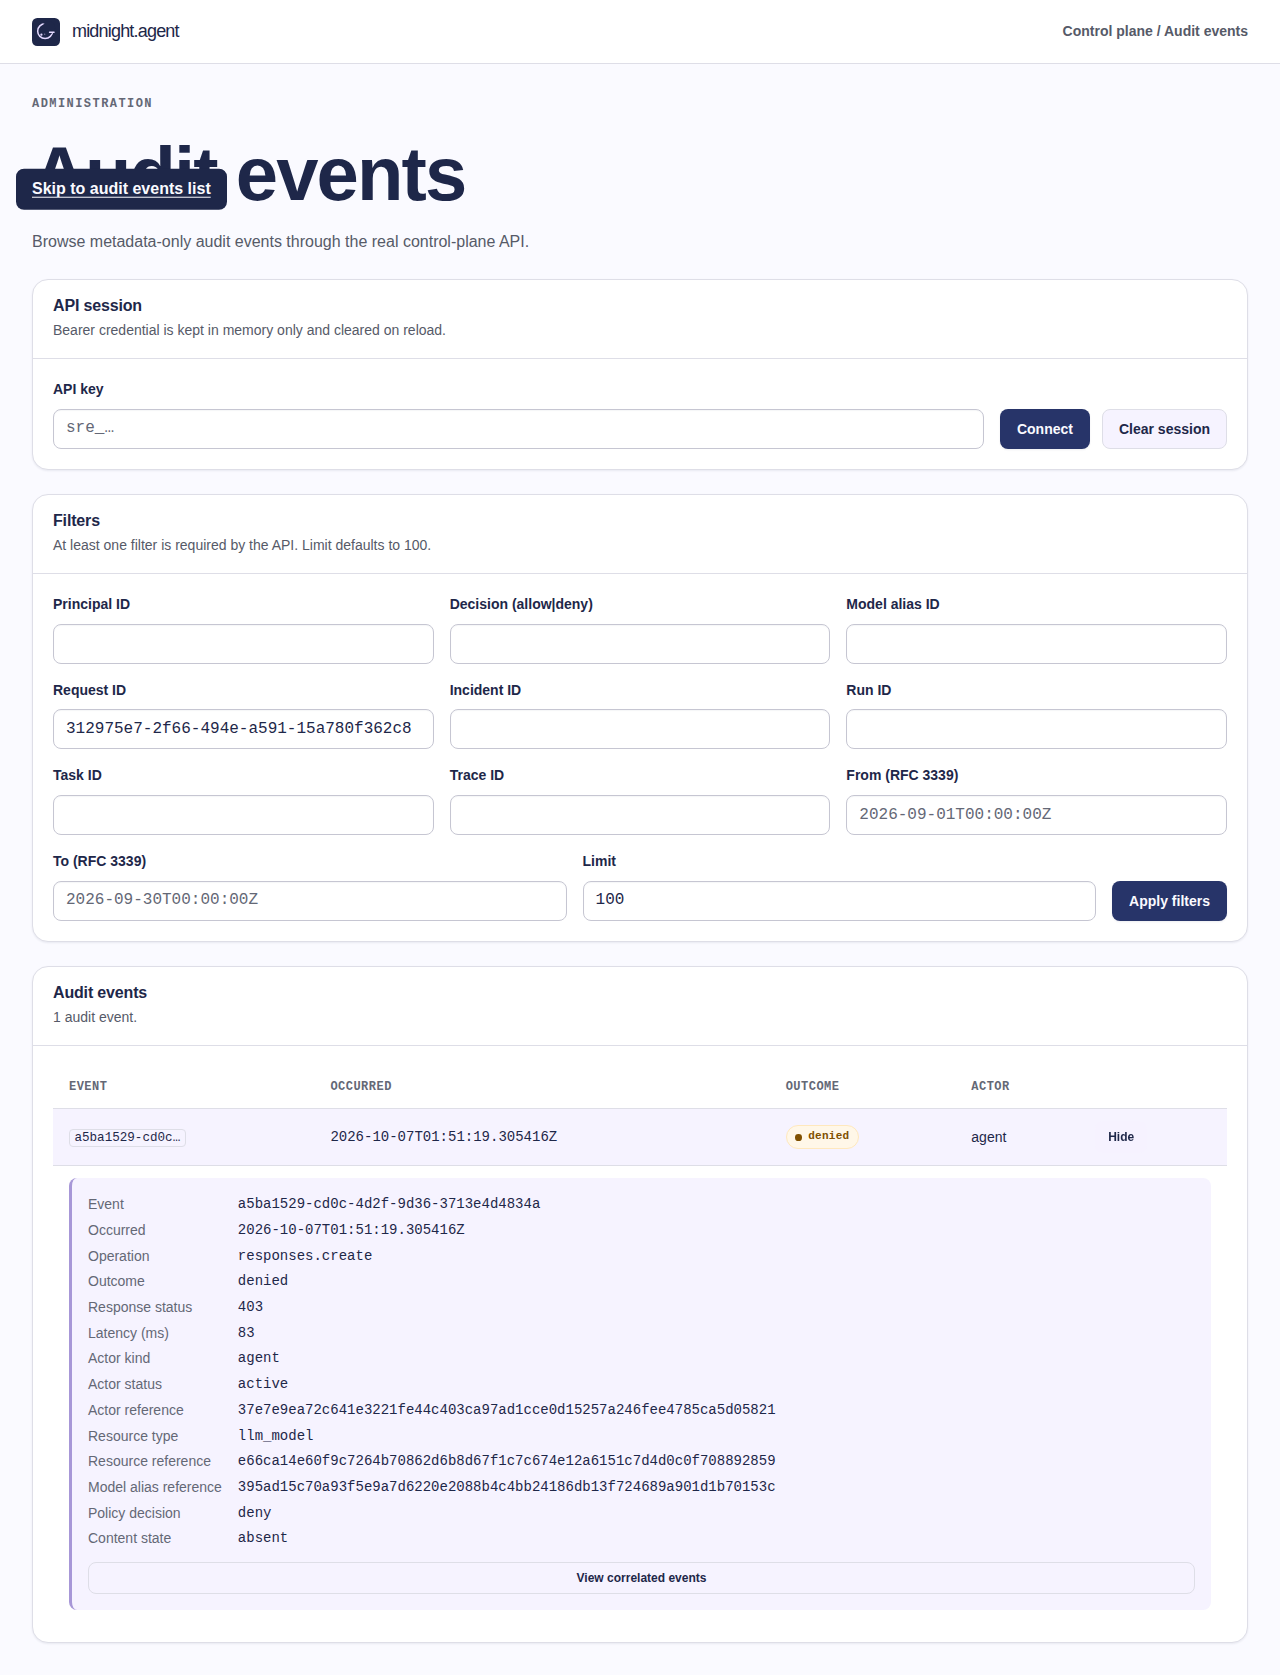
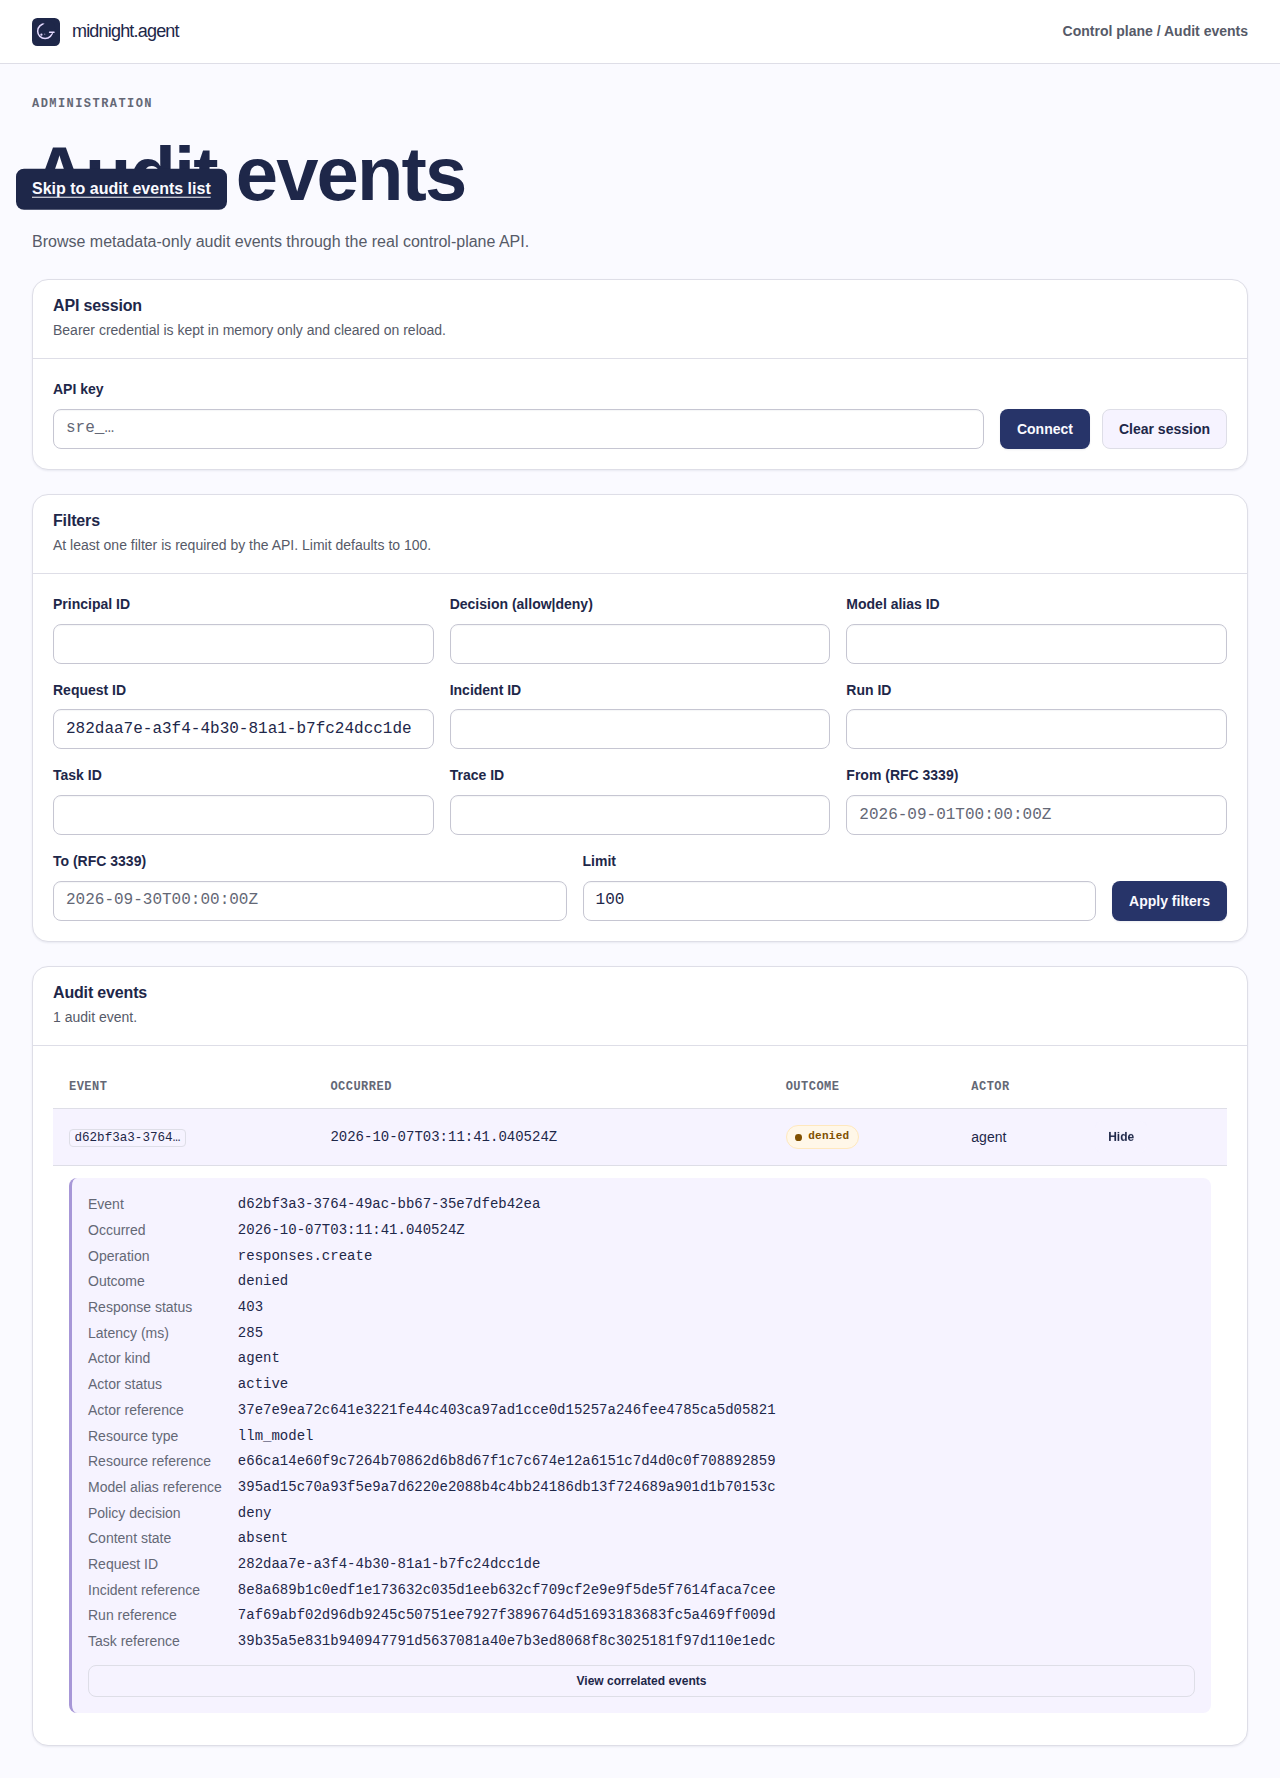
docs(audit): refresh correlation proof on current leaf

diff --git a/docs/evidence/issue-25-correlation-link.md b/docs/evidence/issue-25-correlation-link.md
@@ -1,44 +1,44 @@
 # Issue 25 safe correlation navigation
 
-Authorized follow-up to the audit review: implement the previously absent link,
-not the unrelated P2 fixes or pagination. Delivery route: delegated direct.
-Base runtime: `0af22e97d815a1c511b1a24eec14f70d3611be75`, plus uncommitted UI/tests.
-UI Git blob: `619ced26be1d901ba74cf3847a69905c887243df`.
[1 lines of base64/hex data omitted]
-the capture checks served bytes match the candidate before exercising navigation.
+Authorized follow-up: safe same-origin request-ID navigation plus explicit safe
+rendering of the event's opaque correlation references. Current main is
+`677fb76ae345e223d4313e8c5bcbdbd7acb9bbf3`; the connected capture uses the #491
+leaf. UI Git blob: `06164fbb18614a298afd98f8f806cfda80f30e4b`; served SHA-256:
[1 lines of base64/hex data omitted]
+The capture verifies the served bytes match the candidate UI before use.
 
 ## Behavior and observed proof
 
-Detail now offers **View correlated events**, using only a valid contract
-`correlation.request_id`. The destination is fixed and same-origin, not supplied
-by the server/user. Opening it prefills that UUID, clears unrelated query state,
-keeps credentials out of URLs and requires a new authenticated session. It does
-not issue a broad/automatic audit read. Invalid/duplicate IDs show validation;
-malicious correlation values produce no link. Nil/uppercase UUIDs match the API.
+Detail's **View correlated events** link uses only a valid contract
+`correlation.request_id`, to a fixed same-origin URL. It clears unrelated query
+state; credentials are not carried in URLs and the destination requires new
+authentication. Detail renders `request_id` and explicit incident/run/task/trace
+reference digest values using text content only; it does not expose raw IDs or
+create links from HMAC refs. The observed producer generated incident/run/task
+refs, but `trace_ref` was null and is not claimed as visible proof.
 
-Failure-first: initial three scenarios failed before UI edits (3 failed/4 passed,
-23.3s). An added UUID boundary exposed the initial over-strict parser (1 failed/7
-passed, 16.6s); corrected to the API-compatible canonical UUID universe. Final
-candidate: **8 browser tests passed (10.3s; restored candidate)** and **24 existing HTTP/PostgreSQL/UI
-checks passed (20.20s; restored candidate)**. No unit tests added and no retroactive strict-TDD claim.
+Failure-first browser assertions exercise valid UUID navigation, authentication,
+malicious values as inert text, and no unexpected navigation/network request.
+The current #491 candidate passed **8 Playwright journeys (16.4s)**; targeted
+Python audit/UI checks passed **68 tests (57.24s)**. The full Python suite
+(1562 passed, 1 skipped) ran on the earlier current-main/#386 candidate
+`080bef8c109b5d21c108ce501ea1aaaff460c8db`, before this UI-only change; it is
+not attributed to the #491 leaf.
 
-Real connected capture at `2026-10-07T01:54:09.884Z` followed both gateway-produced
-allow and deny events retained in isolated PostgreSQL. For each, the clicked URL
-and all three API reads retain exactly the producer's request ID. Read statuses
-are **200 -> 403 -> 200**: admin, restricted identity (zero rows), then admin.
-Reload does not carry credentials or query automatically. The reopened detail
-matches the SQL event ID and producer status (200/403), with metadata only.
-
-Artifacts: `issue-25-correlation.json`, `issue-25-correlation-allow.png`,
-`issue-25-correlation-deny.png`. Both screenshots were visually inspected and
-actual synthetic credentials/prompt-output markers checked absent from JSON/DOM.
-This proves the safe-link deliverable in the local candidate, not full issue25
-acceptance. Other P2s, #470 pagination and independent human review remain pending.
+Fresh connected captures at `2026-10-07T03:12:59.985Z` follow actual allow and
+deny producer events retained in isolated PostgreSQL. Both request IDs and SQL
+event IDs match `issue-25-audit-http.json` from the parent evidence. Each browser
+sequence is **200 -> 403 -> 200** (admin, restricted identity with zero rows,
+admin); each of three list reads uses exactly the producer request ID. Both
+screenshots show the selected event and its request/incident/run/task metadata.
+The artifact records visible refs; trace is null. Screenshots were inspected.
+These are controlled integrations using a deterministic injected LLM provider,
+real PostgreSQL and the connected gateway, not live external-provider proof.
 
 ## Containerized reproduction
 
-Use the original review's isolated `.env.worktree` and producer capture recipe in
-`issue-25-audit-review.md` first; no external provider keys or shared database.
+Use the isolated `.env.worktree` and producer capture recipe in
+`issue-25-audit-review.md` first. No external provider keys or shared database.
 
 ```sh
 docker compose -p audit25-review --env-file .env.worktree -f compose.yaml -f compose.e2e.yaml up -d --build web
@@ -47,16 +47,11 @@ docker run --rm --user "$(id -u):$(id -g)" --network audit25-review_runtime --en
 docker compose -p audit25-review --env-file .env.worktree -f compose.yaml -f compose.e2e.yaml --profile checks --profile e2e down
 ```
 
-Published navigation evidence; no merge or issue closure. Full repository suite, live external
-provider, actual killed-DB/offline demonstrations and human acceptance NOT run.
-RDD disabled/unmanaged. Keep review evidence and navigation as separate delivery
-units, each <=400 additions+deletions; do not submit the combined diff as one PR.
-Rollback: revert the UI/tests navigation unit; backend/storage contracts unchanged.
-Sanitized: yes.
+## Remaining acceptance gaps
 
-## Refreshed parent correspondence
-
-After parent HTTP/SQL evidence refreshed, correlation artifacts were regenerated
-from that exact producer artifact on `0295805211ce516bcc6d9a076d29d4b7285947ff`.
-Both allow/deny request IDs and SQL event IDs agree with the parent artifact;
-actual connected capture again observed200/403/200 and unchanged served UI hash.
+P2 truncation notice and hidden 404 remain. Missing-filter interactions with
+forbidden query keys, real database outage, browser-offline behavior, live
+provider, and independent human acceptance were not demonstrated. Do not treat
+these captures or the full-suite result on the earlier candidate as full #25
+acceptance. RDD disabled/unmanaged. Keep #490 and this #491 follow-up as separate
+size-bounded delivery units; no merge or issue closure is claimed.
